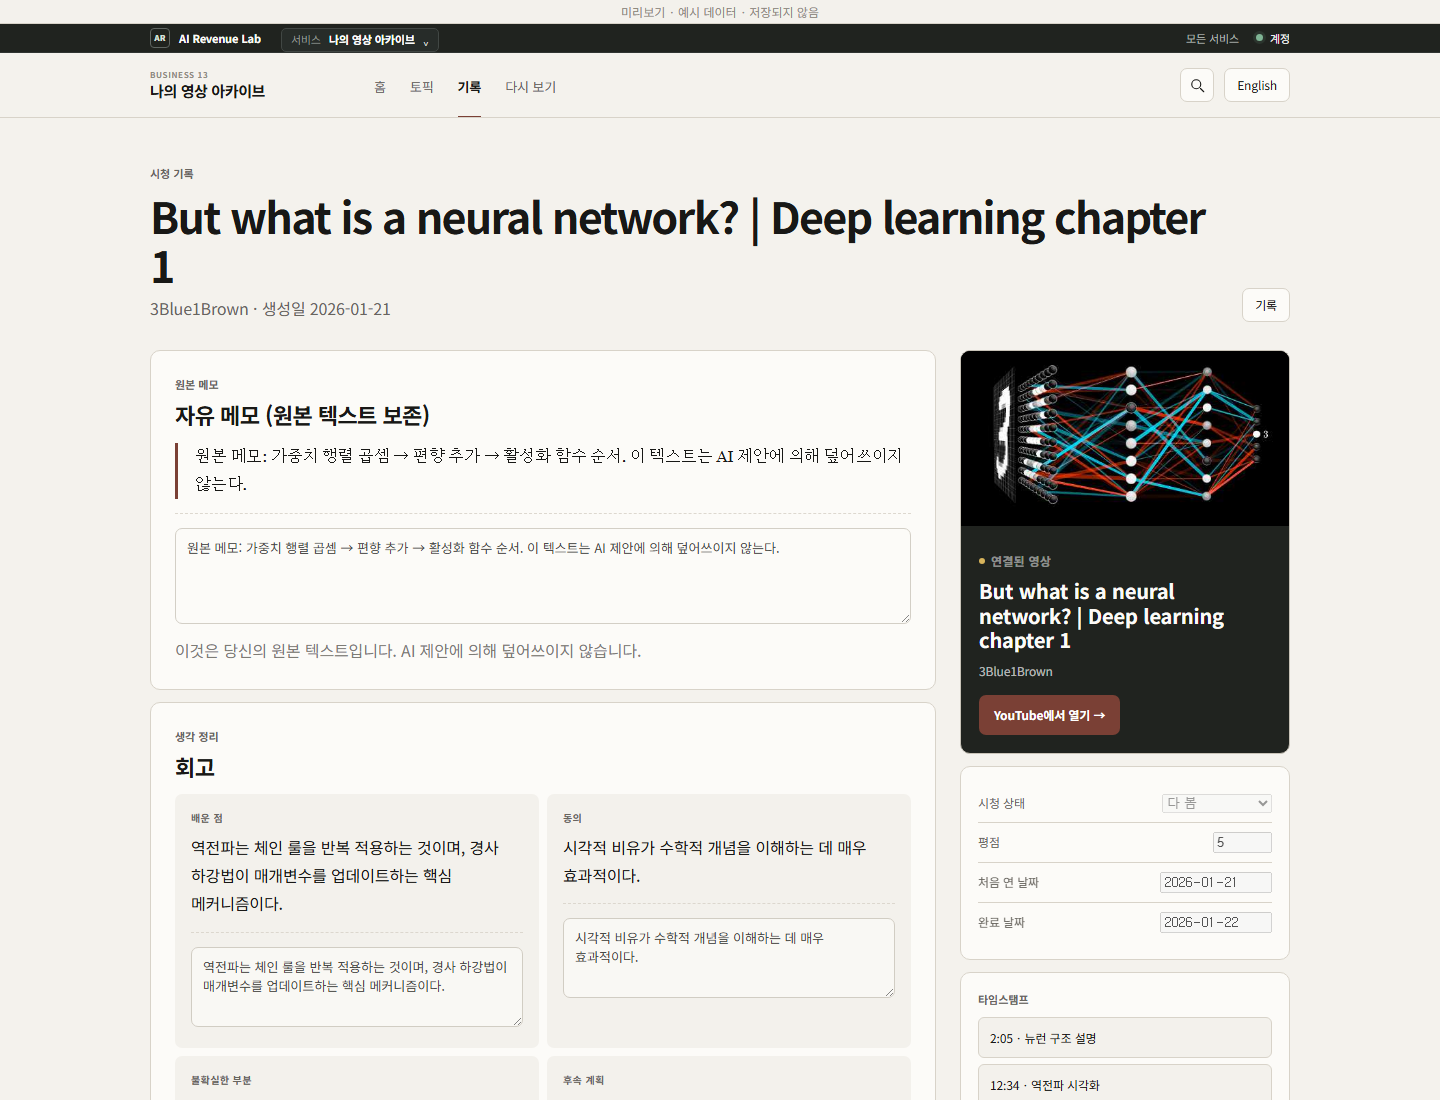
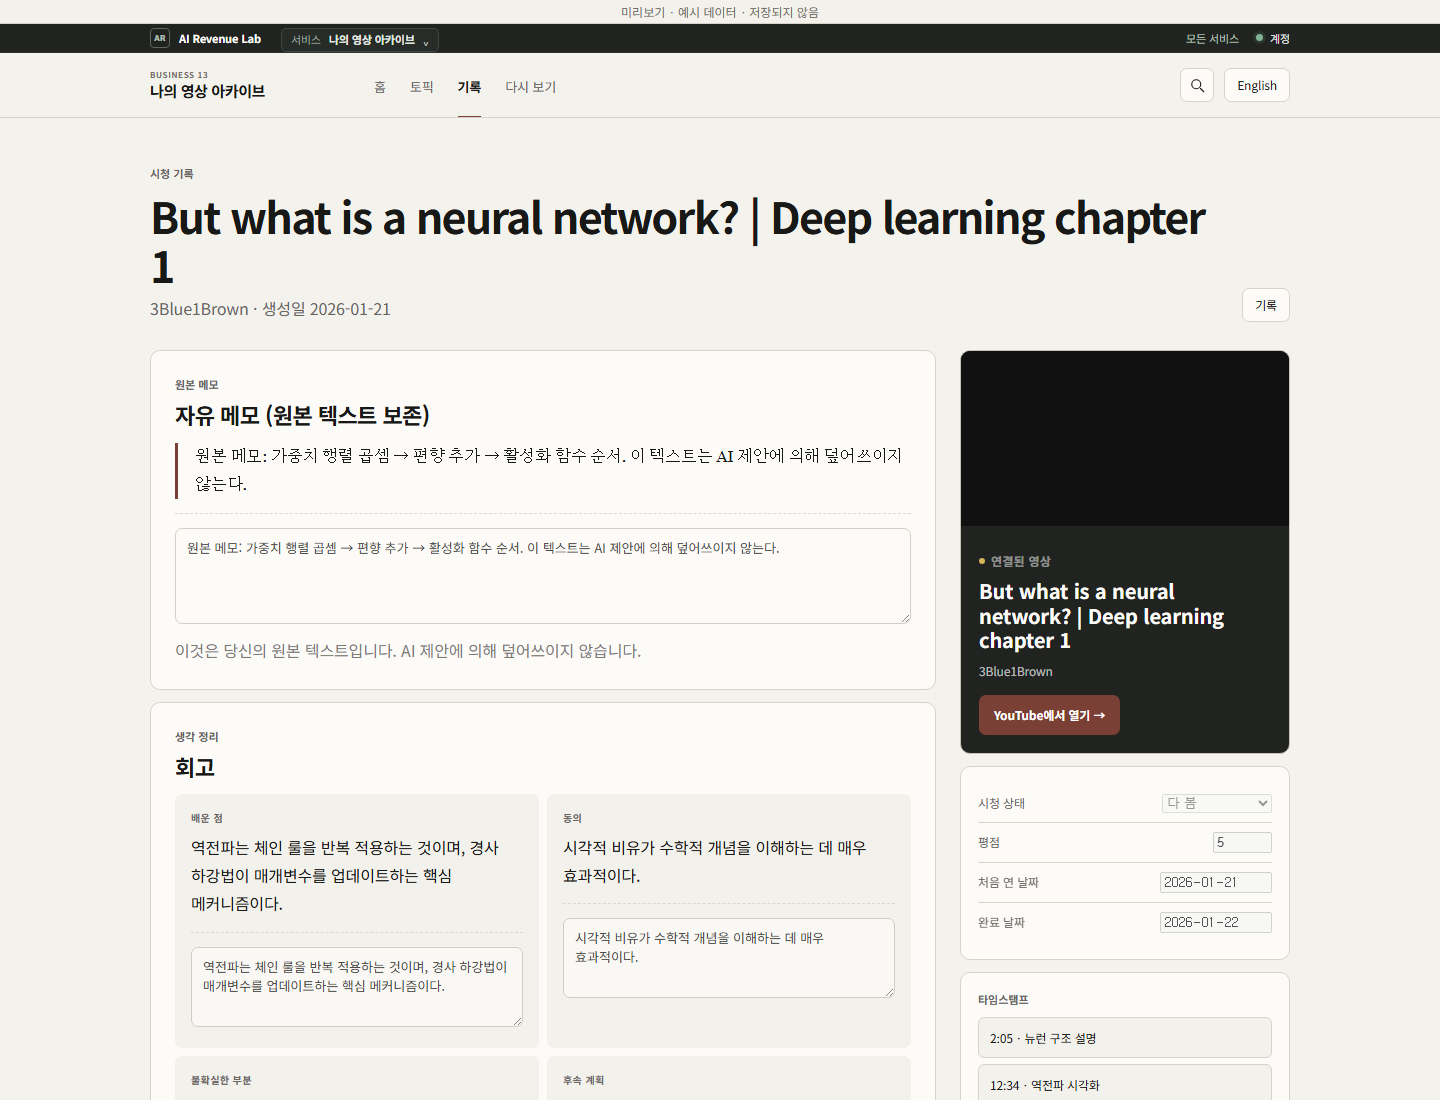
fix(personal-video-archive): align visual refinement with CTO review
- Remove hero-media and story-card gradient overlays (Issue #118: no gradients)
- Restructure home hero: lead image standalone, editorial text below (no text overlay)
- Restructure New finds: thumbnail + metadata + title + match reason below image
  (no text overlay on thumbnails, no white floating containers)
- Replace story-card large/tall with lead class for strong hierarchy
- Fix icon semantics: records = document/note icon, resurfaced = rotate-counterclockwise
- Fix --ink-3 to #706D66 (separate tertiary color, >=4.5:1 on canvas)
- Fix test path separator bug on Windows (as_posix)
- Fix build script docstring: real YouTube fixtures, no API call, no network
- Update VISUAL_REFINEMENT_118.md with corrected ink-3 value
- Regenerate after screenshots with refined composition

Refs #118

Changed region(s): [[0.6875, 0.34, 0.875, 0.4636], [0.25, 0.0309, 0.2812, 0.0618]]

diff --git a/apps/personal-video-archive/static/style.css b/apps/personal-video-archive/static/style.css
@@ -12,7 +12,7 @@
   --surface-2: #F3F1EC;
   --ink: #181816;
   --ink-2: #68655F;
-  --ink-3: #68655F;
+  --ink-3: #706D66;
   --line: #D8D3C9;
   --line-strong: #C8C3B8;
   --signature: #7A4035;
@@ -511,7 +511,7 @@ html[lang="ko"] { word-break: keep-all; }
 .hero {
   display: grid;
   grid-template-columns: minmax(0, 1.48fr) minmax(300px, 0.72fr);
-  gap: 14px;
+  gap: 24px;
   margin-top: 32px;
 }
 
@@ -520,57 +520,47 @@ html[lang="ko"] { word-break: keep-all; }
   border: 1px solid var(--line-strong);
   border-radius: var(--radius-lg);
   overflow: hidden;
-  position: relative;
-  background: #121918;
+  background: #111;
   display: block;
+  position: relative;
 }
 
 .hero-media img { filter: saturate(0.92) contrast(1.02); }
 
-.hero-media:after {
-  content: "";
+.hero-badge {
   position: absolute;
-  inset: 0;
-  background: linear-gradient(180deg, transparent 40%, rgba(8, 10, 9, 0.85));
-}
-
-.hero-overlay {
-  position: absolute;
-  left: 26px;
-  right: 26px;
-  bottom: 24px;
+  left: 16px;
+  top: 16px;
   z-index: 2;
-  color: #fff;
 }
 
-.hero-overlay .meta-row {
+.hero-editorial {
+  margin-top: 16px;
+}
+
+.hero-editorial .meta-row {
   display: flex;
   align-items: center;
   gap: 8px;
   font-size: var(--fs-xs);
-  color: rgba(255, 255, 255, 0.82);
+  color: var(--ink-2);
+  margin-bottom: 8px;
 }
 
-.hero-overlay .meta-row .micro-label { color: #fff; }
-.hero-overlay .meta-row .micro-label:before { background: var(--gold-dot); }
+.hero-editorial .meta-row .micro-label { color: var(--signature); }
+.hero-editorial .meta-row .micro-label:before { background: var(--gold-dot); }
 
-.meta-dot {
-  width: 3px;
-  height: 3px;
-  border-radius: 50%;
-  background: rgba(255, 255, 255, 0.5);
-}
-
-.hero-overlay h2 {
-  margin: 7px 0 9px;
+.hero-editorial h2 {
+  margin: 0 0 8px;
   font-family: var(--serif);
   font-size: 32px;
   font-weight: 600;
   line-height: 1.16;
   letter-spacing: -0.035em;
+  color: var(--ink);
 }
 
-.hero-overlay p { font-size: var(--fs-sm); color: rgba(255, 255, 255, 0.82); }
+.hero-editorial p { font-size: var(--fs-sm); line-height: 1.7; color: var(--ink-2); }
 
 .hero-side {
   display: flex;
@@ -654,55 +644,51 @@ html[lang="ko"] { word-break: keep-all; }
 .discover-grid {
   display: grid;
   grid-template-columns: repeat(4, 1fr);
-  grid-template-rows: 290px 270px;
-  gap: 12px;
+  grid-auto-rows: min-content;
+  gap: 16px;
 }
 
 .story-card {
-  position: relative;
-  border: 1px solid var(--line-strong);
-  border-radius: 10px;
-  overflow: hidden;
-  background: #111;
-  display: block;
+  display: flex;
+  flex-direction: column;
+  gap: 10px;
   grid-column: span 1;
 }
 
-.story-card img { filter: saturate(0.92); }
-
-.story-card:after {
-  content: "";
-  position: absolute;
-  inset: 0;
-  background: linear-gradient(180deg, transparent 45%, rgba(8, 10, 9, 0.8));
+.story-card.lead {
+  grid-column: span 2;
 }
 
-.story-card.large { grid-column: span 2; grid-row: span 2; }
-.story-card.tall { grid-row: span 2; }
-
-.story-info {
-  position: absolute;
-  left: 18px;
-  right: 18px;
-  bottom: 16px;
-  z-index: 2;
-  color: #fff;
+.story-thumb {
+  border-radius: var(--radius-sm);
+  overflow: hidden;
+  background: #111;
+  aspect-ratio: 16 / 9;
 }
 
-.story-info .micro-label { color: #fff; }
+.story-thumb img { filter: saturate(0.92); }
 
-.story-info h3 {
-  margin: 6px 0;
+.story-meta {
+  display: flex;
+  flex-direction: column;
+  gap: 6px;
+}
+
+.story-meta .micro-label { color: var(--signature); }
+.story-meta .micro-label:before { background: var(--gold-dot); }
+
+.story-meta h3 {
   font-family: var(--sans);
-  font-size: 20px;
+  font-size: 17px;
   font-weight: 680;
-  line-height: 1.2;
+  line-height: 1.24;
   letter-spacing: -0.025em;
+  color: var(--ink);
 }
 
-.story-card.large .story-info h3 { font-size: 29px; }
+.story-card.lead .story-meta h3 { font-size: 22px; }
 
-.story-info p { font-size: var(--fs-xs); color: rgba(255, 255, 255, 0.8); }
+.story-meta p { font-size: var(--fs-xs); line-height: 1.5; color: var(--ink-2); }
 
 /* --- Collections ------------------------------------------------------- */
 
@@ -714,17 +700,14 @@ html[lang="ko"] { word-break: keep-all; }
 
 .collection-card {
   min-height: 202px;
-  padding: 20px;
+  padding: 16px;
   border: 1px solid var(--line);
-  border-radius: 10px;
+  border-radius: 8px;
   background: var(--surface);
   display: flex;
   flex-direction: column;
   gap: 12px;
-  transition: border-color 0.16s ease, background 0.16s ease;
 }
-
-.collection-card:hover { border-color: var(--line-strong); }
 
 .collection-title {
   margin-bottom: 7px;
@@ -759,7 +742,7 @@ html[lang="ko"] { word-break: keep-all; }
 .note-card {
   padding: 22px;
   border: 1px solid var(--line);
-  border-radius: 10px;
+  border-radius: 8px;
   background: var(--surface);
   display: block;
 }
@@ -1585,8 +1568,8 @@ hr { border: none; border-top: 1px solid var(--line); margin: 24px 0; }
   .portal-services { display: none; }
   .hero { grid-template-columns: 1fr; }
   .hero-side { display: grid; grid-template-columns: 1fr 1fr; }
-  .discover-grid { grid-template-columns: 1fr 1fr; grid-template-rows: 310px 310px; }
-  .story-card.large, .story-card.tall { grid-row: auto; grid-column: span 1; }
+  .discover-grid { grid-template-columns: 1fr 1fr; }
+  .story-card.lead { grid-column: span 2; }
   .collection-row { grid-template-columns: 1fr; }
   .topic-hero { grid-template-columns: 1fr; }
   .topic-aside { border-left: 0; border-top: 1px solid var(--line); padding: 18px 0 0; }
@@ -1629,8 +1612,7 @@ hr { border: none; border-top: 1px solid var(--line); margin: 24px 0; }
   .lede { font-size: 15px; }
   .hero { margin-top: 24px; }
   .hero-media { min-height: 405px; border-radius: 10px; }
-  .hero-overlay { left: 20px; right: 20px; bottom: 22px; }
-  .hero-overlay h2 { font-size: 25px; }
+  .hero-editorial h2 { font-size: 25px; }
   .hero-side { grid-template-columns: 1fr; }
   .continue-card, .memory-tile { border-radius: 10px; }
   .section { margin-top: 46px; }
@@ -1645,9 +1627,9 @@ hr { border: none; border-top: 1px solid var(--line); margin: 24px 0; }
     margin-right: -13px;
     padding-right: 13px;
   }
-  .story-card { min-width: 88%; height: 400px; scroll-snap-align: start; border-radius: 10px; }
-  .story-card.large, .story-card.tall { grid-column: auto; grid-row: auto; }
-  .story-card.large .story-info h3, .story-info h3 { font-size: 23px; }
+  .story-card { min-width: 88%; scroll-snap-align: start; border-radius: 10px; }
+  .story-card.lead { grid-column: auto; grid-row: auto; }
+  .story-meta h3 { font-size: 20px; }
   .collection-row {
     display: flex;
     overflow-x: auto;

diff --git a/apps/personal-video-archive/templates/base.html b/apps/personal-video-archive/templates/base.html
@@ -75,14 +75,14 @@
             </a>
             <a href="{{ lp }}/records" {% if '/records' in request.url.path %}aria-current="page" class="active"{% endif %}>
                 <b class="nav-icon" aria-hidden="true">
-                    <svg width="20" height="20" viewBox="0 0 24 24" fill="none" xmlns="http://www.w3.org/2000/svg"><path d="M12 19V5M5 12l7 7 7-7" stroke="currentColor" stroke-width="1.5" stroke-linecap="round" stroke-linejoin="round"></path>
+                    <svg width="20" height="20" viewBox="0 0 24 24" fill="none" xmlns="http://www.w3.org/2000/svg"><path d="M14 2H6a2 2 0 00-2 2v16a2 2 0 002 2h12a2 2 0 002-2V8z" stroke="currentColor" stroke-width="1.5" stroke-linecap="round" stroke-linejoin="round"></path><polyline points="14 2 14 8 20 8" stroke="currentColor" stroke-width="1.5" stroke-linecap="round" stroke-linejoin="round"></polyline><line x1="8" y1="13" x2="16" y2="13" stroke="currentColor" stroke-width="1.5" stroke-linecap="round"></line><line x1="8" y1="17" x2="16" y2="17" stroke="currentColor" stroke-width="1.5" stroke-linecap="round"></line>
                     </svg>
                 </b>
                 <span>{{ t("nav_records") }}</span>
             </a>
             <a href="{{ lp }}/#resurface">
                 <b class="nav-icon" aria-hidden="true">
-                    <svg width="20" height="20" viewBox="0 0 24 24" fill="none" xmlns="http://www.w3.org/2000/svg"><path d="M1 4v6l6.5 3.5L12 16l4.5-2.5L23 10V4M4 20h16" stroke="currentColor" stroke-width="1.5" stroke-linecap="round" stroke-linejoin="round"></path>
+                    <svg width="20" height="20" viewBox="0 0 24 24" fill="none" xmlns="http://www.w3.org/2000/svg"><path d="M1 4v6l6.5 3.5L12 16l4.5-2.5L23 10V4" stroke="currentColor" stroke-width="1.5" stroke-linecap="round" stroke-linejoin="round"></path><path d="M1 12a9 9 0 0114.4-7.2M23 12a9 9 0 01-14.4 7.2" stroke="currentColor" stroke-width="1.5" stroke-linecap="round" stroke-linejoin="round"></path>
                     </svg>
                 </b>
                 <span>{{ t("nav_resurface") }}</span>

diff --git a/apps/personal-video-archive/templates/index.html b/apps/personal-video-archive/templates/index.html
@@ -16,18 +16,20 @@
 {% set hv = hero[1] %}
 {% set htv = hero[0] %}
 <section class="hero">
-    <a class="hero-media" href="{{ lp }}/videos/{{ hv.id }}">
-        <img src="{{ hv.thumbnail_url }}" alt="{{ hv.title }}">
-        <div class="hero-overlay">
+    <div>
+        <a class="hero-media" href="{{ lp }}/videos/{{ hv.id }}">
+            <img src="{{ hv.thumbnail_url }}" alt="{{ hv.title }}">
+            <span class="hero-badge micro-label">{{ t("home_hero_label") }}</span>
+        </a>
+        <div class="hero-editorial">
             <div class="meta-row">
                 <span class="micro-label">{{ t("home_hero_label") }}</span>
-                <span class="meta-dot"></span>
                 <span>{{ hv.channel_title }}</span>
             </div>
             <h2>{{ hv.title }}</h2>
             <p>{{ hv.description | truncate(100) }}</p>
         </div>
-    </a>
+    </div>
     <div class="hero-side">
         {% if cw %}
         {% set cwv = cw[1] %}
@@ -71,12 +73,13 @@
         {% set v = item[1] %}
         {% set tv = item[0] %}
         {% set card_class = "story-card" %}
-        {% if loop.index == 1 %}{% set card_class = "story-card large" %}
-        {% elif loop.index == 2 %}{% set card_class = "story-card tall" %}
+        {% if loop.index == 1 %}{% set card_class = "story-card lead" %}
         {% endif %}
         <a class="{{ card_class }}" href="{{ lp }}/videos/{{ v.id }}">
-            <img src="{{ v.thumbnail_url }}" alt="{{ v.title }}">
-            <div class="story-info">
+            <div class="story-thumb">
+                <img src="{{ v.thumbnail_url }}" alt="{{ v.title }}">
+            </div>
+            <div class="story-meta">
                 <span class="micro-label">{{ v.channel_title }}</span>
                 <h3>{{ v.title }}</h3>
                 {% if tv.match_score %}

diff --git a/apps/personal-video-archive/scripts/build_static_preview.py b/apps/personal-video-archive/scripts/build_static_preview.py
@@ -1,12 +1,14 @@
 """Build a static UI preview for Cloudflare Pages.
 
-Renders the *existing* Jinja2 templates with synthetic fixture data into
+Renders the *existing* Jinja2 templates with curated fixture data into
 ``dist-preview/`` so the accepted Phase 1 UI can be reviewed in a hosted
 browser without any backend service.
 
 Safety contract:
-    * synthetic fixtures only (no real personal data, no real YouTube ids);
-    * no database, FastAPI server, provider, API key, or network call;
+    * curated real public YouTube source fixtures (no private/user data);
+    * no YouTube Data API call;
+    * no build-time network call;
+    * no autoplay, iframe, or tracker;
     * inline event-handler JavaScript is stripped from every page;
     * forms are made inert via a restrictive Content-Security-Policy
       (``form-action 'none'; script-src 'none'``) in ``_headers``;

diff --git a/apps/personal-video-archive/docs/visual-review/issue-118/after/screenshots_urls.md b/apps/personal-video-archive/docs/visual-review/issue-118/after/screenshots_urls.md
@@ -1,10 +1,17 @@
 # After screenshot URLs
 
 - `korean_home_1440.png` — http://localhost:8080/ — 1440x1100 — full_page=False
+
 - `korean_home_390.png` — http://localhost:8080/ — 390x844 — full_page=False
+
 - `english_home_1440.png` — http://localhost:8080/en/ — 1440x1100 — full_page=False
+
 - `korean_topic_feed_1440.png` — http://localhost:8080/topics/pv-topic-0001/ — 1440x1100 — full_page=False
+
 - `korean_topic_feed_390.png` — http://localhost:8080/topics/pv-topic-0001/ — 390x844 — full_page=False
+
 - `korean_record_detail_1440.png` — http://localhost:8080/records/pv-rec-0001/ — 1440x1100 — full_page=False
+
 - `korean_record_detail_390.png` — http://localhost:8080/records/pv-rec-0001/ — 390x844 — full_page=False
+
 - `korean_home_fullpage.png` — http://localhost:8080/ — 1440x1100 — full_page=True

diff --git a/apps/personal-video-archive/docs/VISUAL_REFINEMENT_118.md b/apps/personal-video-archive/docs/VISUAL_REFINEMENT_118.md
@@ -92,7 +92,7 @@ The current implementation (Phase 1, #76/#78) is coherent and functional, but it
 | `--surface-2` | `#F3F1EC` | Inset wells, filter pill idle |
 | `--ink` | `#181816` | Primary text (near-black) |
 | `--ink-2` | `#68655F` | Secondary text |
-| `--ink-3` | `#8F8A7E` | Tertiary/metadata text |
+| `--ink-3` | `#706D66` | Tertiary/metadata text (≥4.5:1 on canvas) |
 | `--line` | `#D8D3C9` | Borders, dividers (hairline) |
 | `--line-strong` | `#C8C3B8` | Emphasized borders |
 | `--signature` | `#7A4035` | Signature accent (muted rust/oxblood) |
